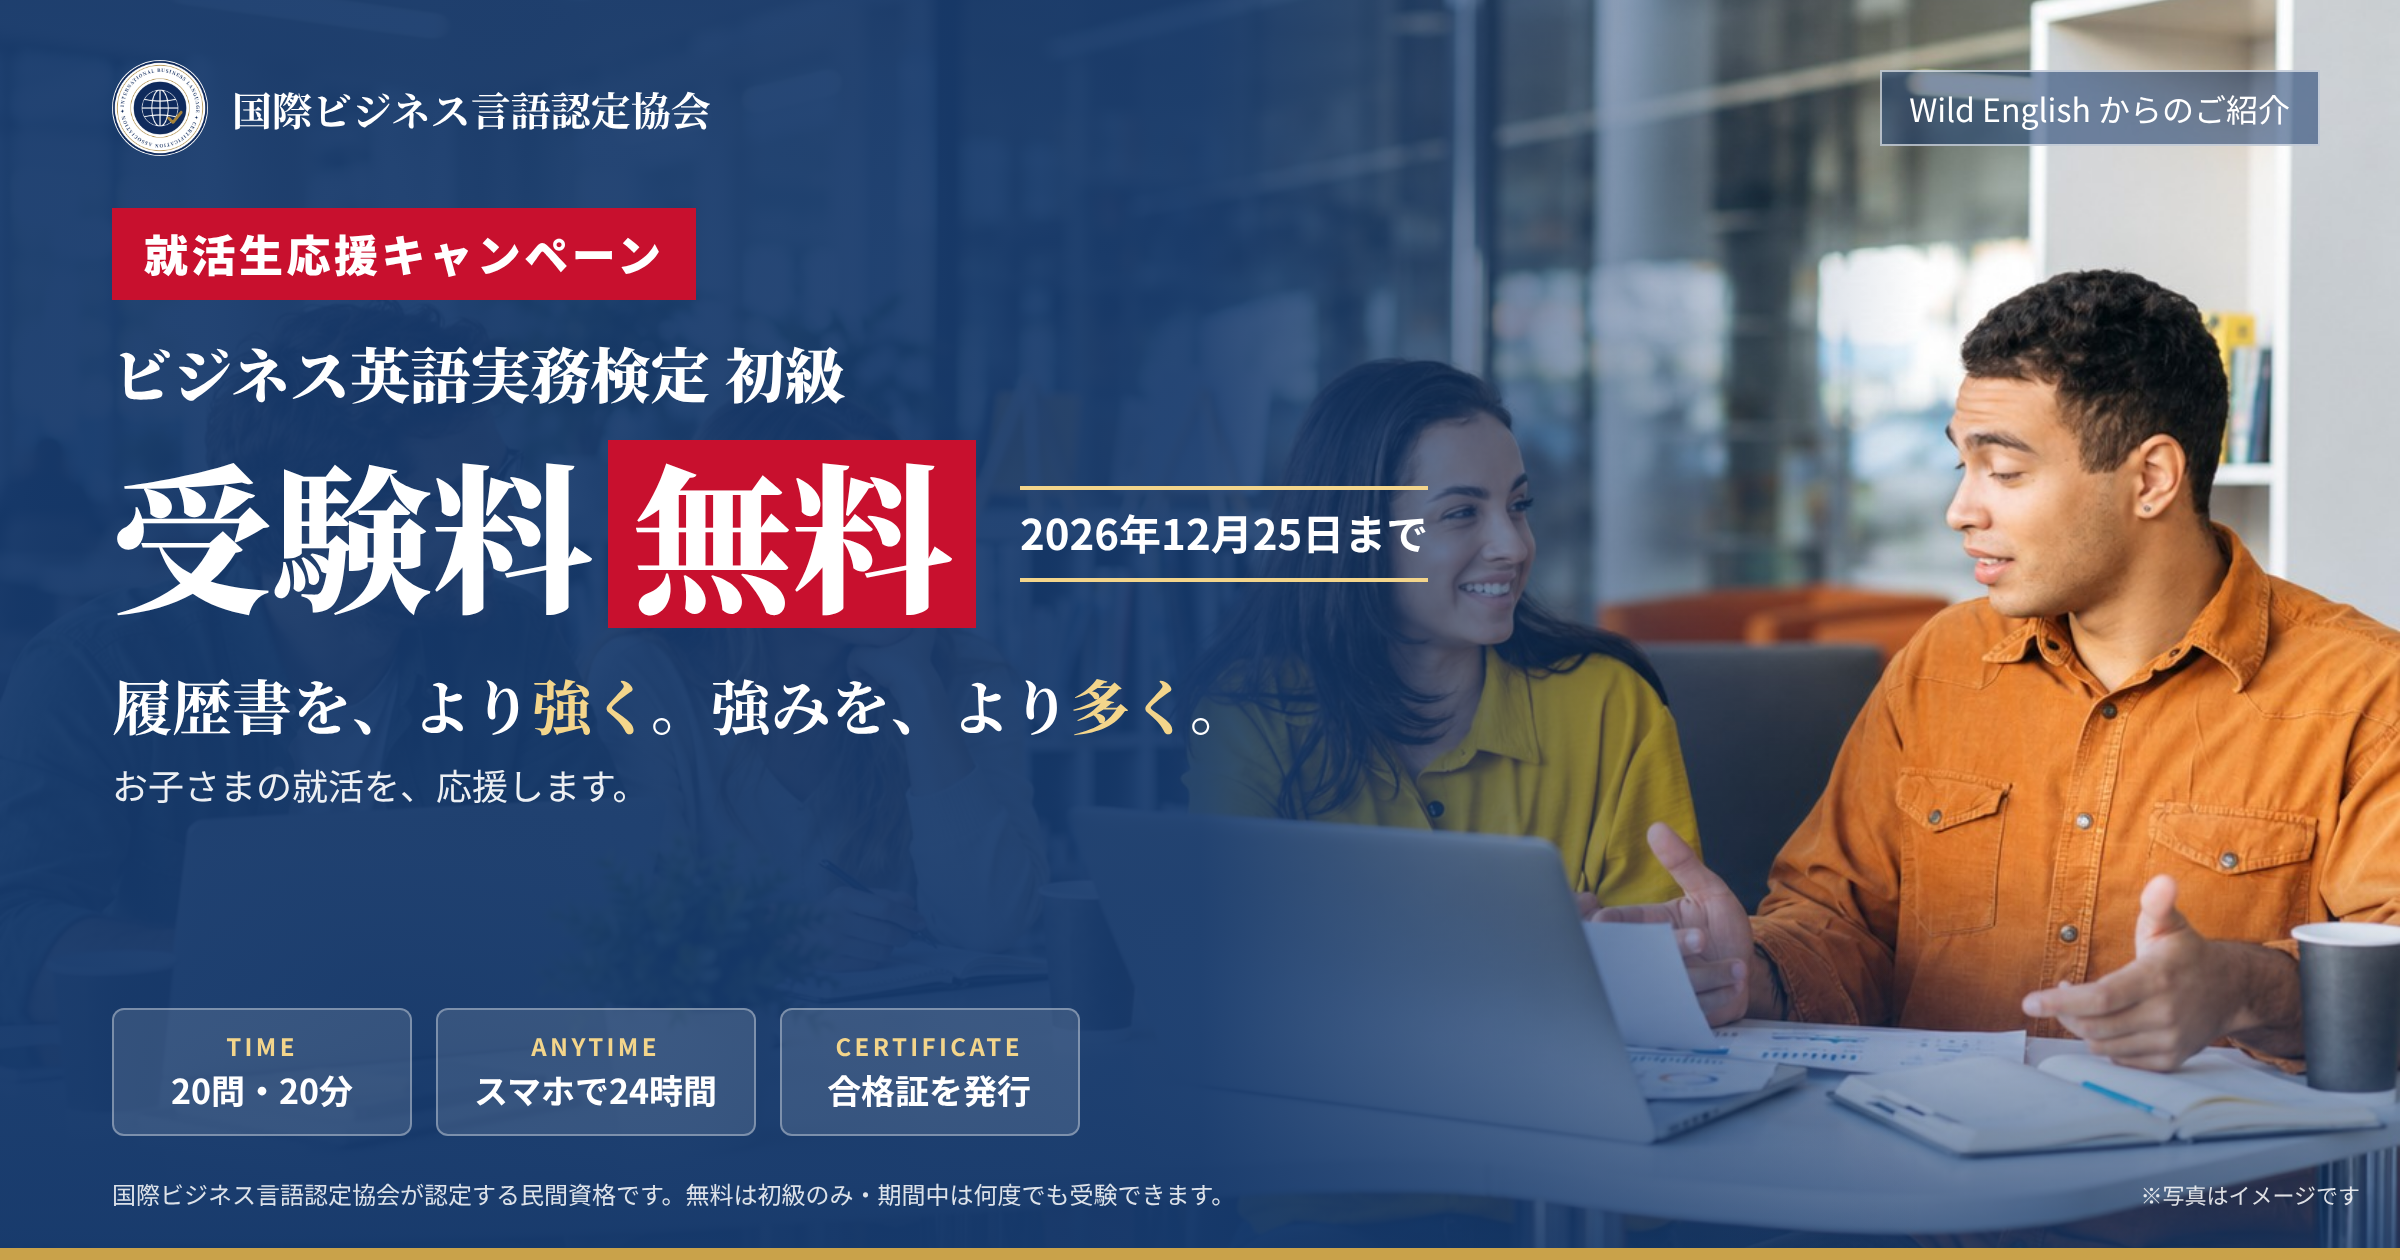
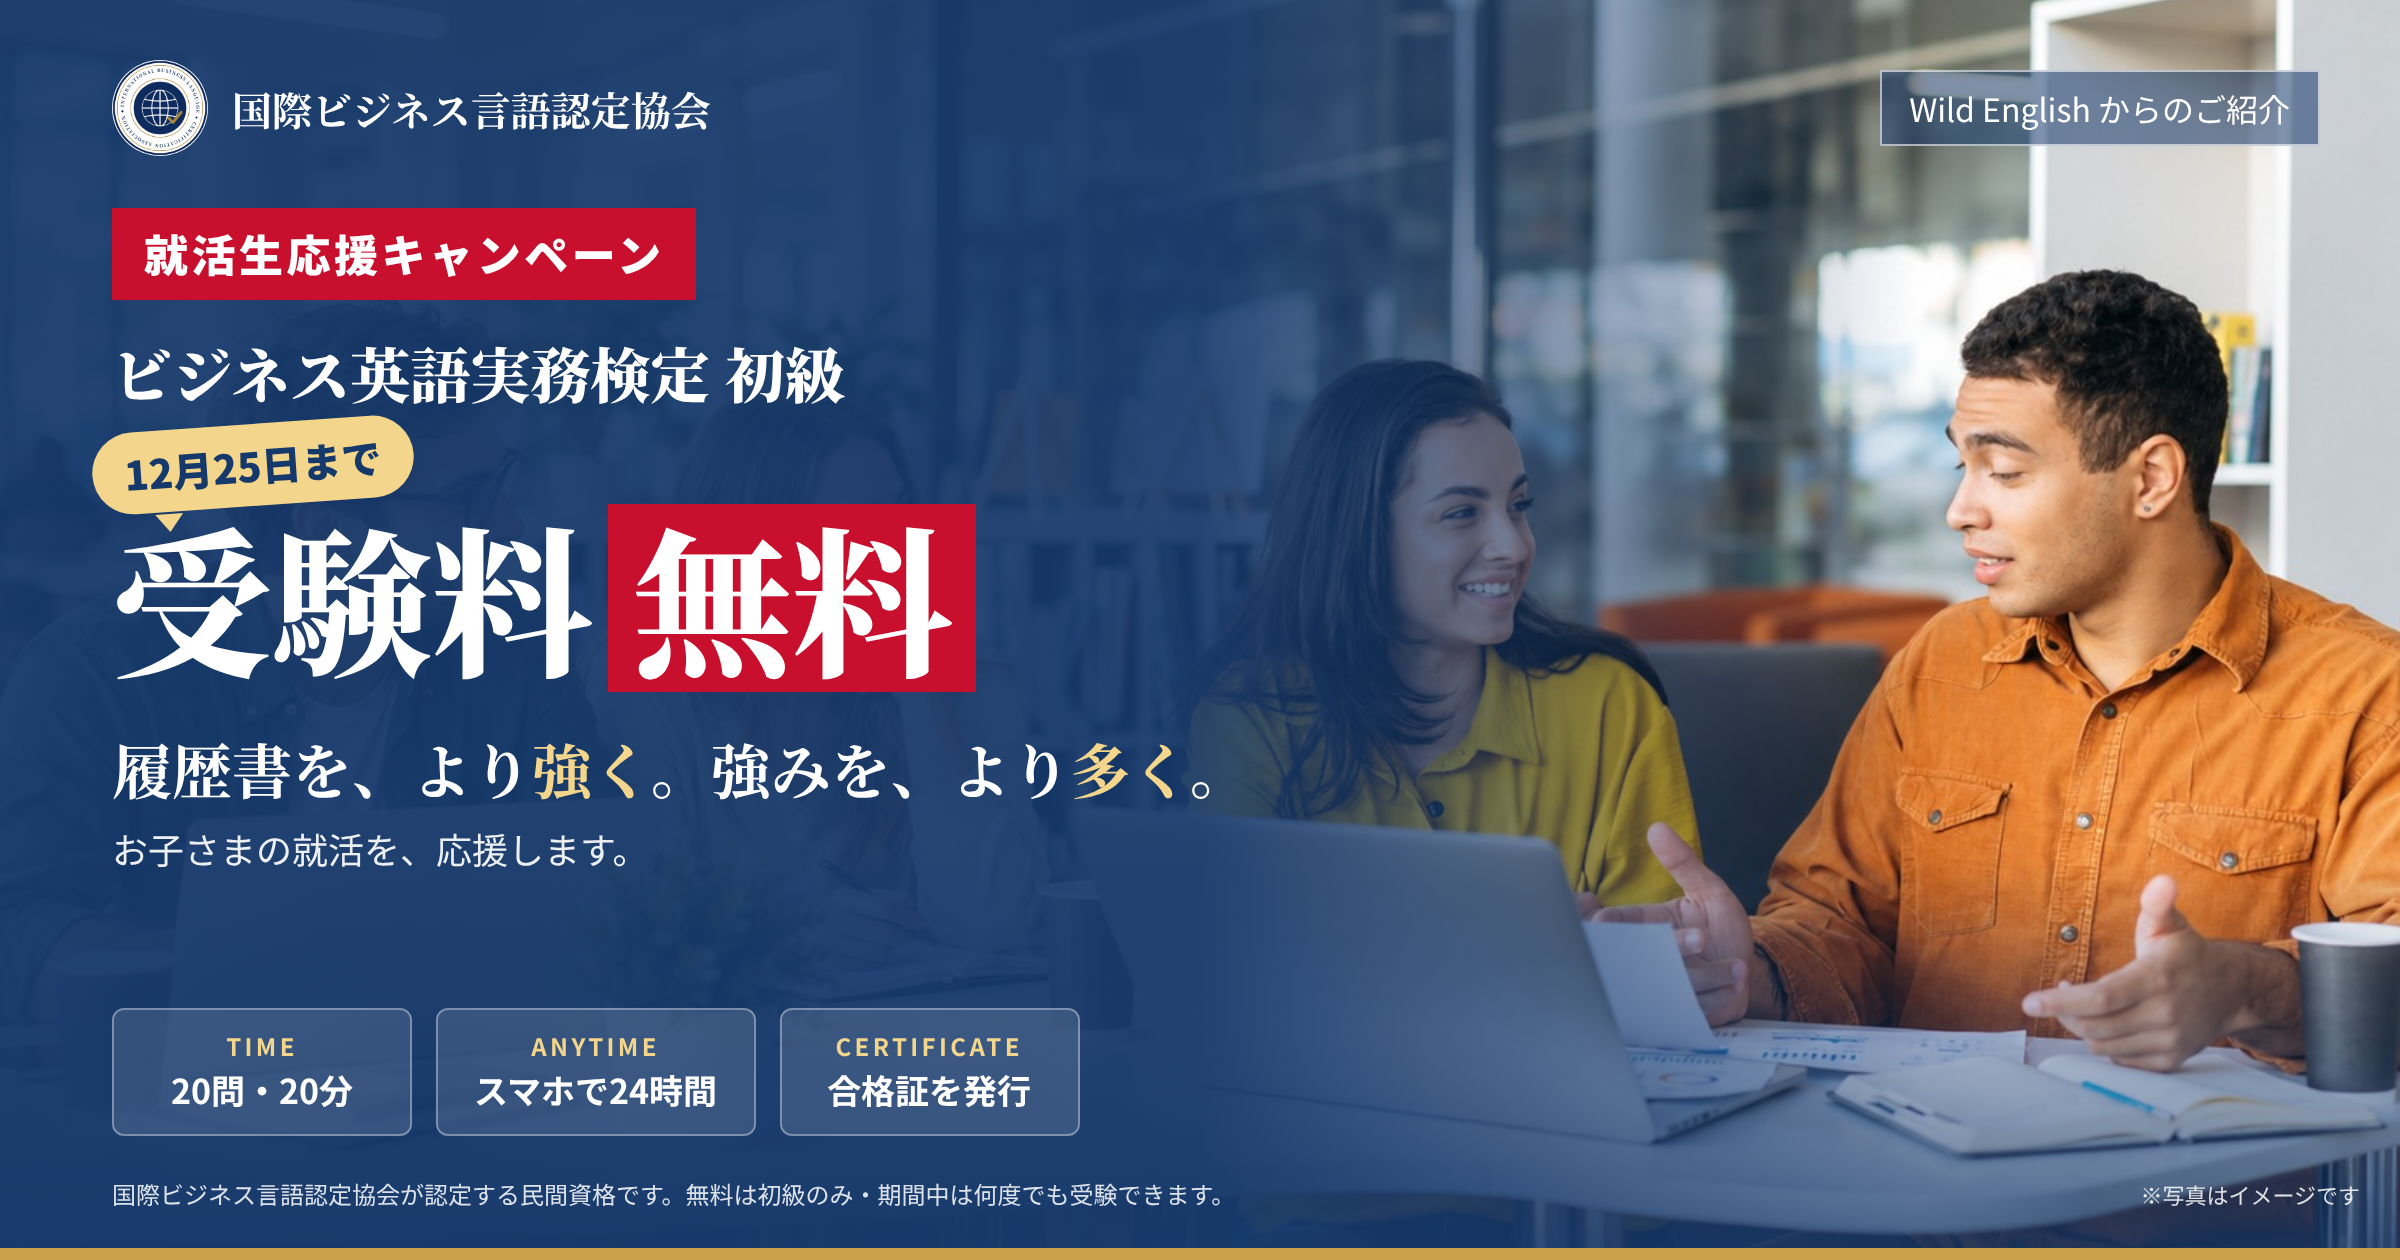
FB広告：期限を吹き出しにして写真の人物を見せる
Claude-Session: https://claude.ai/code/session_01T3NaLWbuuvRT9b8SoudneK

Changed region(s): [[0.0312, 0.3095, 0.5938, 0.7119]]

diff --git a/assets/本陣へ/fb_src/combo_1200x630.html b/assets/本陣へ/fb_src/combo_1200x630.html
@@ -11,7 +11,9 @@ body{width:1200px;height:630px;position:relative;overflow:hidden;font-family:"No
 .main{position:absolute;left:56px;top:104px;width:720px}
 .tag{display:inline-block;background:var(--red);font-weight:900;font-size:22px;padding:7px 16px;letter-spacing:.08em}
 .kentei{font-family:"Noto Serif CJK JP",serif;font-weight:900;font-size:30px;margin-top:14px}
-.row{display:flex;align-items:center;gap:22px;margin-top:12px}
+.row{position:relative;margin-top:44px}
+.bubble{position:absolute;left:-10px;top:-40px;background:var(--gold);color:#16396b;font-weight:900;font-size:20px;padding:6px 16px;border-radius:22px;white-space:nowrap;transform:rotate(-4deg);z-index:2}
+.bubble:after{content:"";position:absolute;left:30px;bottom:-10px;border:7px solid transparent;border-top:9px solid var(--gold);border-bottom:0}
 .free{font-family:"Noto Serif CJK JP",serif;font-weight:900;font-size:80px;line-height:1.1;white-space:nowrap}
 .free em{font-style:normal;display:inline-block;background:var(--red);padding:6px 12px 8px;margin-left:8px;line-height:1}
 .date{font-weight:700;font-size:21px;border-top:2px solid var(--gold);border-bottom:2px solid var(--gold);padding:7px 0;white-space:nowrap}
@@ -31,7 +33,7 @@ body{width:1200px;height:630px;position:relative;overflow:hidden;font-family:"No
 <div class="main">
 <span class="tag">就活生応援キャンペーン</span>
 <div class="kentei">ビジネス英語実務検定 初級</div>
-<div class="row"><div class="free">受験料<em>無料</em></div><div class="date">2026年12月25日まで</div></div>
+<div class="row"><div class="bubble">12月25日まで</div><div class="free">受験料<em>無料</em></div></div>
 <div class="flag">履歴書を、より<em>強く</em>。強みを、より<em>多く</em>。</div>
 <div class="parent">お子さまの就活を、応援します。</div>
 </div>
